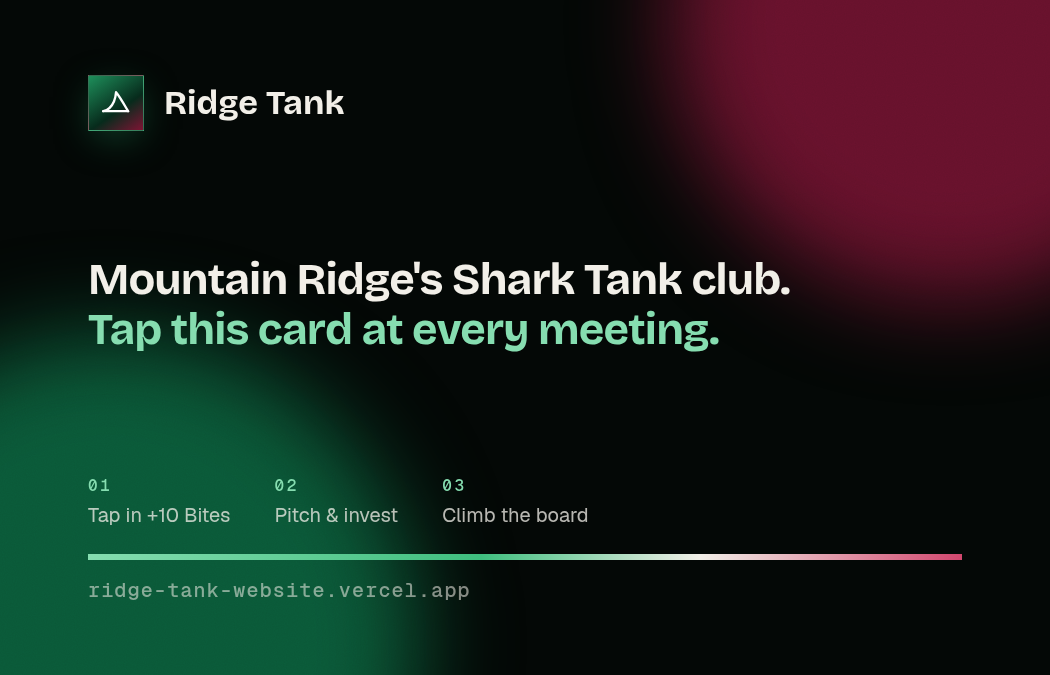
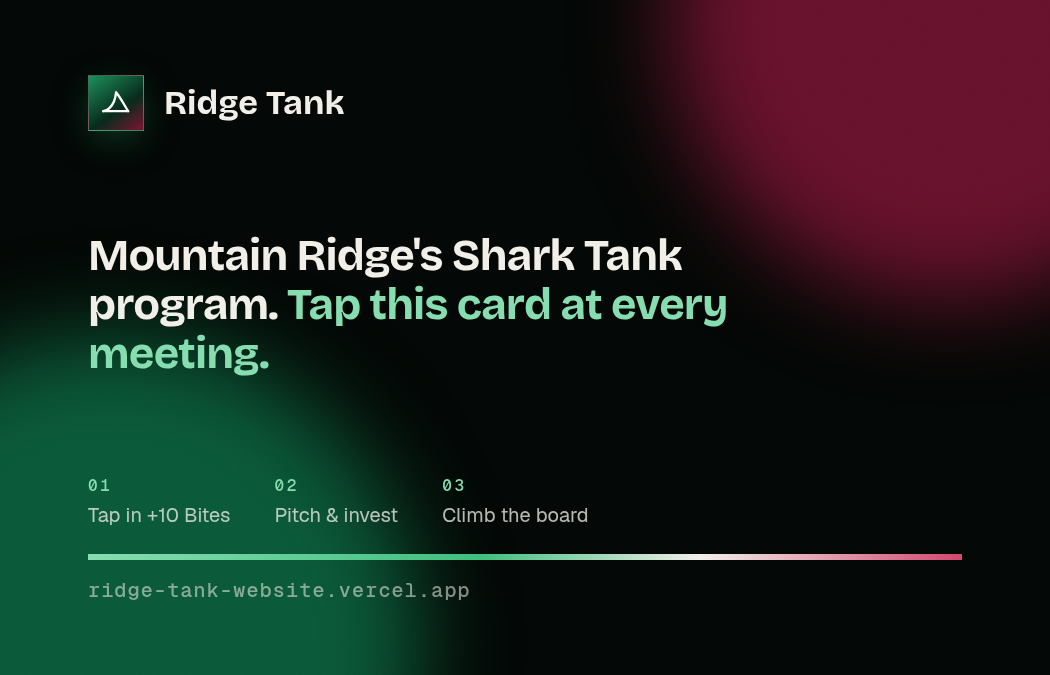
Call it a program instead of a club (#17)
Claude-Session: https://claude.ai/code/session_01BMEovW6ojWDG59xXo4X1Pt

Changed region(s): [[0.061, 0.3422, 0.7619, 0.56]]

diff --git a/js/app.js b/js/app.js
@@ -133,7 +133,7 @@
   function phoneInput(value) {
     return h('input', { class: 'input', type: 'tel', placeholder: '(555) 123-4567', autocomplete: 'tel', inputmode: 'tel', maxlength: 20, value: value || '' });
   }
-  const PHONE_HINT = 'We’ll text you once to add you to the club group chat (iMessage or WhatsApp). Only officers can see it.';
+  const PHONE_HINT = 'We’ll text you once to add you to the program group chat (iMessage or WhatsApp). Only officers can see it.';
   // Saving the number is a bonus step: joining still works if it fails (e.g. the v3 database update isn't in yet).
   async function savePhone(phone) {
     if (!phone) return;
@@ -298,7 +298,7 @@
     if (S.me) {
       items.push(h('div', { class: 'menu-user' }, avatar(S.me.name, 40),
         h('div', { class: 'min0' }, h('div', { class: 'menu-name' }, S.me.name), h('div', { class: 'muted small ellipsis' }, S.user.email || ''))));
-      items.push(link('#/home', 'Home', 'home'), link('#/about', 'About the club', 'fin'), link('#/leaderboard', 'Leaderboard', 'trophy'), link('#/chat', 'Club chat', 'chat'), link('#/profile', 'Profile & badges', 'user'));
+      items.push(link('#/home', 'Home', 'home'), link('#/about', 'About the program', 'fin'), link('#/leaderboard', 'Leaderboard', 'trophy'), link('#/chat', 'Program chat', 'chat'), link('#/profile', 'Profile & badges', 'user'));
       if (S.isAdmin) items.push(link('#/admin/checkin', 'Officer tools', 'shield', S.pendingCount ? h('span', { class: 'count-pill' }, String(S.pendingCount)) : null));
       items.push(h('div', { class: 'menu-sep' }));
       items.push(h('button', { class: 'menu-item', type: 'button', onclick: signOut }, icon('logout', 18), h('span', { class: 'grow' }, 'Sign out')));
@@ -306,7 +306,7 @@
       items.push(h('div', { class: 'menu-user' }, avatar(S.user.email, 40), h('div', { class: 'min0' }, h('div', { class: 'menu-name' }, 'Signed in'), h('div', { class: 'muted small ellipsis' }, S.user.email || ''))));
       items.push(h('button', { class: 'menu-item', type: 'button', onclick: signOut }, icon('logout', 18), h('span', { class: 'grow' }, 'Sign out')));
     } else {
-      items.push(link('#/', 'About the club', 'fin'));
+      items.push(link('#/', 'About the program', 'fin'));
       items.push(link('#/login', 'Log in', 'user'));
       items.push(h('a', { class: 'btn btn-primary btn-block', href: '#/signup', onclick: closeMenu }, 'Join Ridge Tank', icon('arrowRight', 16)));
     }
@@ -381,8 +381,8 @@
           { label: 'Log in', href: '#/login' },
           { label: 'Join Ridge Tank', href: '#/signup' },
           { label: 'Leaderboard', href: '#/leaderboard', lock: true },
-          { label: 'Club chat', href: '#/chat', lock: true }] },
-        { title: 'Club', links: [
+          { label: 'Program chat', href: '#/chat', lock: true }] },
+        { title: 'Program', links: [
           { label: 'Officers', jump: 'officers' },
           { label: 'Privacy', href: 'privacy.html' }] }
       ];
@@ -391,11 +391,11 @@
       { title: 'Explore', links: [
         { label: 'Home', href: '#/home' },
         { label: 'Leaderboard', href: '#/leaderboard' },
-        { label: 'Club chat', href: '#/chat' }] },
+        { label: 'Program chat', href: '#/chat' }] },
       { title: 'Account', links: [
         { label: 'Profile & badges', href: '#/profile' },
         { label: 'Sign out', onClick: signOut }] },
-      { title: 'Club', links: [{ label: 'Privacy', href: 'privacy.html' }].concat(S.isAdmin
+      { title: 'Program', links: [{ label: 'Privacy', href: 'privacy.html' }].concat(S.isAdmin
         ? [{ label: 'Officer tools', href: '#/admin/checkin' }, { label: 'Card requests', href: '#/admin/requests' }]
         : []) }
     ];
@@ -417,7 +417,7 @@
     const brand = anim(0.1, 'f-brand',
       h('a', { class: 'brand', href: S.me ? '#/home' : '#/', 'aria-label': 'Ridge Tank home' },
         h('span', { class: 'brand-mark' }, icon('fin', 18)), h('span', { class: 'brand-name' }, 'Ridge Tank')),
-      h('p', { class: 'f-tag' }, 'Mountain Ridge’s Shark Tank club. Show up, pitch your ideas, and climb the leaderboard.'),
+      h('p', { class: 'f-tag' }, 'Mountain Ridge’s Shark Tank program. Show up, pitch your ideas, and climb the leaderboard.'),
       social.length ? h('div', { class: 'f-social' }, social.map(s =>
         h('a', { class: 'icon-btn', href: s.href, target: '_blank', rel: 'noopener noreferrer', 'aria-label': s.label }, icon(s.icon || 'link', 18)))) : null);
 
@@ -525,7 +525,7 @@
       h('div', { class: 'hero-inner' },
         h('p', { class: 'eyebrow reveal', style: { '--i': 0 } }, cfg.school),
         title,
-        h('p', { class: 'hero-sub reveal', style: { '--i': 3 } }, 'Mountain Ridge’s Shark Tank club. Pitch your ideas, back other people’s, and climb the leaderboard all year.'),
+        h('p', { class: 'hero-sub reveal', style: { '--i': 3 } }, 'Mountain Ridge’s Shark Tank program. Pitch your ideas, back other people’s, and climb the leaderboard all year.'),
         h('div', { class: 'hero-cta reveal', style: { '--i': 4 } },
           S.me
             ? h('a', { class: 'btn btn-primary btn-lg', href: '#/home' }, 'Go to your dashboard', icon('arrowRight', 18))
@@ -581,7 +581,7 @@
         h('div', { class: 'locked-copy' },
           h('span', { class: 'lock-badge' }, icon('lock', 18)),
           h('h3', null, 'The leaderboard is members-only'),
-          h('p', { class: 'muted' }, 'Join or log in to see where you rank, track your badges, and talk in the club chat.'),
+          h('p', { class: 'muted' }, 'Join or log in to see where you rank, track your badges, and talk in the program chat.'),
           h('div', { class: 'row gap-sm wrap center' },
             h('a', { class: 'btn btn-primary', href: '#/signup' }, 'Join Ridge Tank'),
             h('a', { class: 'btn btn-ghost', href: '#/login' }, 'Log in')))));
@@ -686,7 +686,7 @@
         field('Password', pw),
         h('div', { class: 'field' }, h('span', { class: 'label' }, 'Already have a Ridge Tank card?'), hasCard),
         codeField, refField,
-        h('label', { class: 'check-row' }, agree, h('span', null, 'I understand my name and Bites will show on the club leaderboard, which only members can see.')),
+        h('label', { class: 'check-row' }, agree, h('span', null, 'I understand my name and Bites will show on the program leaderboard, which only members can see.')),
         err, submit,
         h('p', { class: 'muted small center' }, 'Already joined? ', h('a', { href: '#/login' }, 'Log in')));
 
@@ -787,7 +787,7 @@
       clear(panes).appendChild(m === 'new' ? newPane : cardPane);
       panes.firstChild.insertBefore(phoneField, panes.firstChild.children[m === 'new' ? 2 : 1] || null);
       panes.firstChild.classList.add('form-in');
-      submit.textContent = m === 'new' ? 'Join the club' : 'Link my card';
+      submit.textContent = m === 'new' ? 'Join the program' : 'Link my card';
     }
     const seg = segmented({ items: [{ value: 'new', label: 'I’m new' }, { value: 'card', label: 'I have a card' }], value: mode, className: 'seg-fill', onChange: show });
 

diff --git a/privacy.html b/privacy.html
@@ -30,26 +30,26 @@
     <h1>Privacy</h1>
     <p class="updated">Last updated September 29, 2026</p>
 
-    <p>Ridge Tank is a student club at Mountain Ridge High School. This site tracks club attendance, Bites (the club's points), badges, and a members-only chat. Here's what it stores and why, in plain words.</p>
+    <p>Ridge Tank is a student program at Mountain Ridge High School. This site tracks attendance, Bites (the program's points), badges, and a members-only chat. Here's what it stores and why, in plain words.</p>
 
     <h2>What we collect</h2>
     <ul>
       <li><strong>Your account:</strong> your name, grade, and email address. If you sign in with Google, we get your name and email from Google. We don't get your Google password or anything else from your Google account.</li>
-      <li><strong>Club activity:</strong> which meetings you checked in to, pitch results, Bites you invested in other members and any bounties you claimed, badges, and your Bites.</li>
+      <li><strong>Program activity:</strong> which meetings you checked in to, pitch results, Bites you invested in other members and any bounties you claimed, badges, and your Bites.</li>
       <li><strong>Your card:</strong> the ID number built into your Ridge Tank card, so tapping it can check you in.</li>
-      <li><strong>Chat:</strong> messages you post in the club chat.</li>
+      <li><strong>Chat:</strong> messages you post in the program chat.</li>
     </ul>
 
     <h2>Who can see it</h2>
     <ul>
-      <li>Signed-in members can see everyone's name, Bites, and tier on the leaderboard, and messages in the club chat.</li>
+      <li>Signed-in members can see everyone's name, Bites, and tier on the leaderboard, and messages in the program chat.</li>
       <li>Only you can see your own check-in history and badge progress.</li>
-      <li>Club officers can see member details (including emails and card IDs) so they can run check-in and make cards.</li>
+      <li>Program officers can see member details (including emails and card IDs) so they can run check-in and make cards.</li>
     </ul>
 
     <h2>What we don't do</h2>
     <ul>
-      <li>We don't sell or share your information with anyone outside the club.</li>
+      <li>We don't sell or share your information with anyone outside the program.</li>
       <li>We don't show ads or use tracking cookies. The site only saves what it needs in your browser to keep you logged in.</li>
     </ul>
 
@@ -57,7 +57,7 @@
     <p>Data is stored with Supabase, a database service, and is locked down so people can only read what the rules above allow.</p>
 
     <h2>Deleting your data</h2>
-    <p>Ask any club officer to delete your account. We'll remove your profile, check-ins, badges, and chat messages.</p>
+    <p>Ask any program officer to delete your account. We'll remove your profile, check-ins, badges, and chat messages.</p>
 
     <footer>Ridge Tank · Mountain Ridge High School</footer>
   </main>

diff --git a/index.html b/index.html
@@ -4,7 +4,7 @@
   <meta charset="utf-8">
   <meta name="viewport" content="width=device-width, initial-scale=1, viewport-fit=cover">
   <title>Ridge Tank</title>
-  <meta name="description" content="Ridge Tank, Mountain Ridge High School's Shark Tank club. Tap in at meetings, pitch, earn badges, and climb the members-only leaderboard.">
+  <meta name="description" content="Ridge Tank, Mountain Ridge High School's Shark Tank program. Tap in at meetings, pitch, earn badges, and climb the members-only leaderboard.">
   <meta name="theme-color" content="#030705">
   <!-- The site is already dark; stop dark-mode extensions (e.g. Dark Reader) from repainting it. -->
   <meta name="color-scheme" content="dark light">
@@ -14,7 +14,7 @@
   <link rel="preconnect" href="https://fonts.googleapis.com">
   <link rel="preconnect" href="https://fonts.gstatic.com" crossorigin>
   <link rel="stylesheet" href="https://fonts.googleapis.com/css2?family=Bricolage+Grotesque:opsz,wdth,wght@12..96,75..100,300..800&family=Geist:wght@300..700&family=Geist+Mono:wght@400..600&display=swap">
-  <link rel="stylesheet" href="css/styles.css?v=36">
+  <link rel="stylesheet" href="css/styles.css?v=37">
 </head>
 <body>
   <canvas id="bg" aria-hidden="true"></canvas>
@@ -39,18 +39,18 @@
   </noscript>
 
   <!-- Bump ?v= whenever these files change so browsers fetch the new copy. -->
-  <script src="js/config.js?v=36"></script>
-  <script src="js/mesh.js?v=36"></script>
-  <script src="js/intro.js?v=36"></script>
+  <script src="js/config.js?v=37"></script>
+  <script src="js/mesh.js?v=37"></script>
+  <script src="js/intro.js?v=37"></script>
   <script src="https://cdn.jsdelivr.net/npm/@supabase/supabase-js@2"></script>
-  <script src="js/ui.js?v=36"></script>
-  <script src="js/dots.js?v=36"></script>
-  <script src="js/spotlight.js?v=36"></script>
-  <script src="js/data.js?v=36"></script>
-  <script src="js/market.js?v=36"></script>
-  <script src="js/member.js?v=36"></script>
-  <script src="js/chat.js?v=36"></script>
-  <script src="js/admin.js?v=36"></script>
-  <script src="js/app.js?v=36"></script>
+  <script src="js/ui.js?v=37"></script>
+  <script src="js/dots.js?v=37"></script>
+  <script src="js/spotlight.js?v=37"></script>
+  <script src="js/data.js?v=37"></script>
+  <script src="js/market.js?v=37"></script>
+  <script src="js/member.js?v=37"></script>
+  <script src="js/chat.js?v=37"></script>
+  <script src="js/admin.js?v=37"></script>
+  <script src="js/app.js?v=37"></script>
 </body>
 </html>

diff --git a/js/chat.js b/js/chat.js
@@ -23,7 +23,7 @@
     const head = h('header', { class: 'chat-head' },
       h('div', { class: 'chat-title' },
         h('span', { class: 'chat-icon' }, icon('chat', 18)),
-        h('div', null, h('h2', null, 'Club chat'), h('p', { class: 'muted small' }, `Everyone in Ridge Tank · ${S.directory.size || S.board.length} members`))),
+        h('div', null, h('h2', null, 'Program chat'), h('p', { class: 'muted small' }, `Everyone in Ridge Tank · ${S.directory.size || S.board.length} members`))),
       liveDot);
 
     const list = h('div', { class: 'chat-list' });
@@ -31,7 +31,7 @@
     const scroller = h('div', { class: 'chat-scroll', role: 'log', 'aria-live': 'polite', 'aria-label': 'Messages' }, olderBtn, list);
     const newPill = h('button', { class: 'new-pill', type: 'button', hidden: true, onclick: () => scrollToBottom(true) }, 'New messages', icon('chevronDown', 14));
 
-    const input = h('textarea', { class: 'composer-input', rows: 1, placeholder: 'Message the club…', maxlength: 1000, 'aria-label': 'Message' });
+    const input = h('textarea', { class: 'composer-input', rows: 1, placeholder: 'Message everyone…', maxlength: 1000, 'aria-label': 'Message' });
     const counter = h('span', { class: 'composer-count mono', hidden: true });
     const sendBtn = h('button', { class: 'send-btn', type: 'submit', disabled: true, 'aria-label': 'Send message' }, icon('arrowUp', 18));
     const composer = h('form', { class: 'composer' }, input, counter, sendBtn);
@@ -161,7 +161,7 @@
         list.appendChild(h('div', { class: 'chat-empty' },
           h('span', { class: 'big-icon' }, icon('chat', 26)),
           h('h3', null, 'No messages yet'),
-          h('p', { class: 'muted' }, 'Say hi. Everyone in the club can see this chat.')));
+          h('p', { class: 'muted' }, 'Say hi. Everyone in the program can see this chat.')));
         return;
       }
       let lastDay = null;

diff --git a/marketing/poster-launch.html b/marketing/poster-launch.html
@@ -25,7 +25,7 @@ h1 span{display:block;background:linear-gradient(90deg,var(--g-300),var(--g-400)
 <div class="mesh"><i style="width:900px;height:900px;right:-250px;top:-250px;background:var(--b-600);opacity:.8"></i><i style="width:900px;height:900px;left:-350px;bottom:-250px;background:#0d6b44;opacity:.8"></i><i style="width:500px;height:500px;left:250px;top:500px;background:#041a10;opacity:.9"></i></div><div class="grain"></div>
 <div class="top"><div class="brand"><span class="mark" style="width:72px;height:72px"><svg viewBox="0 0 24 24"><path d="M2.5 18.5c3.4-.7 6.4-3.2 8.2-7.4.9-2.2 1.4-4.6 1.6-7.1 3.2 3.9 6.1 9.2 9.2 14.5"/><path d="M2.5 18.5h19"/></svg></span>Ridge Tank</div><div class="mono">Mountain Ridge High School</div></div>
 <div class="body"><div class="pill mono">Website is live</div><h1>The Tank<span>is open.</span></h1></div>
-<p class="lede">Mountain Ridge's Shark Tank club. Pitch ideas, back other people's, grow your Bites and climb the leaderboard all year.</p>
+<p class="lede">Mountain Ridge's Shark Tank program. Pitch ideas, back other people's, grow your Bites and climb the leaderboard all year.</p>
 <div class="perk"><b>SIGN UP BEFORE OCT 21</b><span>First 10 sign-ups get candy. Everyone who signs up is entered to win cash at the meeting.</span></div>
 <div class="tiers"><div class="track"></div><div class="nodes"><div style="color:var(--g-300)"></div><div style="color:var(--g-400)"></div><div style="color:#f2efe8"></div><div style="color:var(--b-400)"></div></div>
 <div class="names"><span>Reef Shark</span><span>Tiger Shark</span><span>Great White</span><span>Megalodon</span></div></div>

diff --git a/js/admin.js b/js/admin.js
@@ -444,7 +444,7 @@
       const rows = A.members.filter(m => !q || m.name.toLowerCase().includes(q) || (m.email || '').toLowerCase().includes(q) || (m.login_code || '').toLowerCase().includes(q) || (m.phone || '').includes(q));
       clear(table);
       table.appendChild(h('div', { class: 'trow thead' }, h('span', null, 'Name'), h('span', null, 'Grade'), h('span', null, 'Bites'), h('span', null, 'Card'), h('span', null, 'Account'), h('span')));
-      if (!rows.length) { table.appendChild(h('div', { class: 'empty small' }, h('p', { class: 'muted' }, A.members.length ? 'No matches.' : 'No members yet. Add the club roster to get started.'))); return; }
+      if (!rows.length) { table.appendChild(h('div', { class: 'empty small' }, h('p', { class: 'muted' }, A.members.length ? 'No matches.' : 'No members yet. Add the roster to get started.'))); return; }
       rows.forEach(m => table.appendChild(h('button', { class: 'trow', type: 'button', onclick: () => memberModal(m, draw) },
         h('span', { class: 'cell-name' }, avatar(m.name, 30), h('span', { class: 'ellipsis' }, m.name)),
         h('span', { class: 'muted' }, m.grade ? m.grade + 'th' : '—'),

diff --git a/marketing/card-back.html b/marketing/card-back.html
@@ -15,6 +15,6 @@
 </style></head><body><div class="art">
 <div class="mesh"><i style="width:560px;height:560px;right:-180px;top:-260px;background:var(--b-600);opacity:.8"></i><i style="width:620px;height:620px;left:-200px;bottom:-280px;background:#0d6b44;opacity:.8"></i></div><div class="grain"></div>
 <div class="c"><div class="head"><span class="mark"><svg viewBox="0 0 24 24"><path d="M2.5 18.5c3.4-.7 6.4-3.2 8.2-7.4.9-2.2 1.4-4.6 1.6-7.1 3.2 3.9 6.1 9.2 9.2 14.5"/><path d="M2.5 18.5h19"/></svg></span><b>Ridge Tank</b></div>
-<div class="mid">Mountain Ridge's Shark Tank club. <i>Tap this card at every meeting.</i></div>
+<div class="mid">Mountain Ridge's Shark Tank program. <i>Tap this card at every meeting.</i></div>
 <div><div class="steps"><div><em>01</em>Tap in +10 Bites</div><div><em>02</em>Pitch &amp; invest</div><div><em>03</em>Climb the board</div></div><div class="bar" style="margin:26px 0 20px"></div><div class="url">ridge-tank-website.vercel.app</div></div></div>
 </div></body></html>
